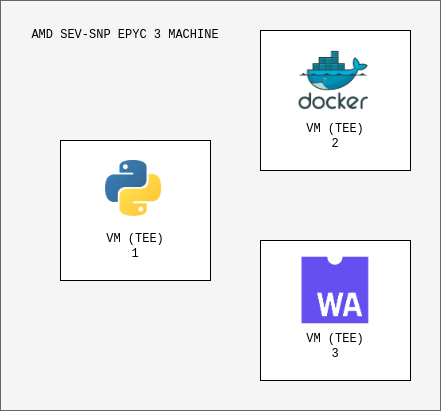
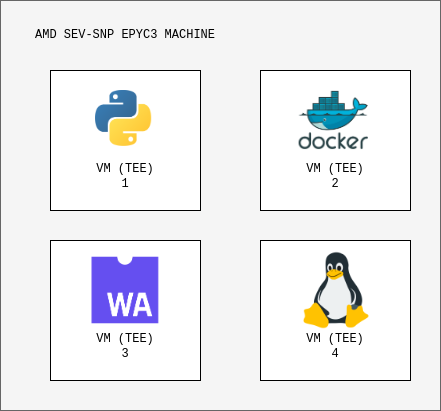
Fix Prism page

diff --git a/prism.html b/prism.html
@@ -476,7 +476,7 @@
   <div class="container">
       <div class="row">
           <div class="col-md-6 d-flex align-items-center justify-content-center">
-              <img src="img/ui.png" alt="Intuitive User Interface in Prism" class="img-fluid">
+              <img src="img/prism-ui.png" alt="Intuitive User Interface in Prism" class="img-fluid">
           </div>
           <div class="col-md-6 mt-5 mt-lg-0">
               <h1>Intuitive User Interface</h1>
@@ -495,7 +495,7 @@
   <div class="container">
       <div class="row">
           <div class="col-md-6 order-md-2 d-flex align-items-center justify-content-center">
-              <img src="img/security.png" alt="Multi-tenant And Strong Security in Prism" class="img-fluid">
+              <img src="img/policies.png" alt="Multi-tenant And Strong Security in Prism" class="img-fluid">
           </div>
           <div class="col-md-6 order-md-1 mt-5 mt-lg-0">
               <h1>Multi-tenant And Strong Security</h1>
@@ -536,11 +536,17 @@
     <div class="row">
       <div class="col-md-6 mt-5 mt-lg-0">
         <h1>Multiple Workload Runtime Support</h1>
-        <p>Prism offers robust support for multiple workload runtimes, enabling users to orchestrate and run a variety of computational tasks within secure enclaves. This flexibility is crucial for accommodating diverse computational needs and enhancing the versatility of the platform.</p>
-        <p>Users can seamlessly execute Python AI algorithms with the necessary libraries, leveraging the power of Python’s extensive ecosystem for machine learning and data science.</p>
-        <p>Additionaly, Prism supports Docker containers, allowing for the deployment of containerized applications with all dependencies included, ensuring consistency and scalability across different environments.</p>
-        <p>Furthermore, Prism supports WebAssembly (Wasm) workloads, enabling efficient execution of lightweight, high-performance code. This support for Wasm enhances the platform’s capability to handle diverse computational tasks, making it a versatile choice for a wide range of applications.</p>
-        <p>With Prism's multiple workload runtime support, users can confidently develop, deploy, and manage a variety of computational workloads within a secure, privacy-preserving environment, driving innovation and efficiency in confidential computing.</p>
+        <p>Prism is designed to support a wide range of computational workloads within secure enclaves, enhancing its versatility and adaptability. This support is essential for meeting diverse computational requirements and advancing the capabilities of the platform.</p>
+        
+        <p>Users can seamlessly execute:</p>
+        <ul>
+          <li><strong>Python AI Algorithms:</strong> Leverage Python’s extensive ecosystem for machine learning and data science, utilizing the necessary libraries and tools.</li>
+          <li><strong>Docker Containers:</strong> Deploy containerized applications with all dependencies included, ensuring consistency and scalability across different environments.</li>
+          <li><strong>WebAssembly (Wasm) Workloads:</strong> Execute lightweight, high-performance code efficiently, enhancing the platform’s capability to handle a variety of computational tasks.</li>
+          <li><strong>ELF Binaries:</strong> Run executable Linux binaries, expanding the range of supported workloads to include various custom applications and utilities.</li>
+        </ul>
+        
+        <p>With Prism's comprehensive support for these workload types, users can confidently develop, deploy, and manage a broad spectrum of computational tasks within a secure, privacy-preserving environment. This capability drives innovation and efficiency in confidential computing, enabling groundbreaking developments in various fields.</p>
       </div>
       <div class="col-md-6 d-flex align-items-center justify-content-center">
         <img src="img/runtimes.png" alt="Multiple Workload Runtime Support in Prism" class="img-fluid">
@@ -552,23 +558,27 @@
 
 
 
-<!-- Open-source Core section -->
-<section id="open-source-core" class="py-5">
+
+<!-- Enclave Monitoring, Events, and Logs section -->
+<section id="enclave-monitoring" class="py-5">
   <div class="container">
     <div class="row">
       <div class="col-md-6 d-flex align-items-center justify-content-center">
-        <img src="img/open-source.png" alt="Open-source Core in Prism" class="img-fluid">
+        <img src="img/logs.png" alt="Enclave Monitoring in Prism" class="img-fluid">
       </div>
       <div class="col-md-6 mt-5 mt-lg-0">
-        <h1>Open-source Core</h1>
-        <p>Prism is built on a foundation of open-source technology, leveraging the robust capabilities of the <a href="https://github.com/ultravioletrs/cocos">Cocos AI platform</a>. All critical infrastructural software within Prism is completely open and free, ensuring transparency, flexibility, and community-driven innovation.</p>
-        <p>This open-source approach allows organizations and developers to access, modify, and contribute to the core components of the platform, fostering a collaborative ecosystem. By integrating with Cocos AI, Prism ensures that secure, confidential computations are accessible and customizable to meet diverse needs.</p>
-        <p>The open-source core includes essential features such as secure enclave management, confidential VM orchestration, and remote attestation procedures, all designed to maintain high standards of security and performance. This commitment to open-source excellence ensures that Prism remains at the forefront of privacy-preserving collaborative AI.</p>
+        <h1>Enclave Monitoring, Events, and Logs</h1>
+        <p>Prism offers comprehensive monitoring, event tracking, and logging capabilities to ensure the security and integrity of computations within secure enclaves. This feature is crucial for maintaining transparency, detecting anomalies, and ensuring reliable operations.</p>
+        <p>The platform continuously monitors the health and performance of enclaves, providing real-time insights into the execution of confidential workloads. This proactive monitoring helps in identifying and addressing potential issues promptly.</p>
+        <p>Additionally, Prism generates detailed event logs, capturing significant activities and events within the enclaves. These logs are essential for audit purposes, compliance, and forensic analysis, ensuring that all actions are traceable and verifiable.</p>
+        <p>The logging system is designed to securely store and manage logs, preserving their integrity and confidentiality. This ensures that sensitive information is protected while enabling thorough analysis and troubleshooting.</p>
+        <p>With Prism's robust enclave monitoring, event tracking, and logging capabilities, organizations can maintain high standards of security and operational excellence, fostering trust and reliability in their confidential computing initiatives.</p>
       </div>
     </div>
   </div>
 </section>
-<!-- End of Open-source Core section -->
+<!-- End of Enclave Monitoring, Events, and Logs section -->
+
 
 
 
